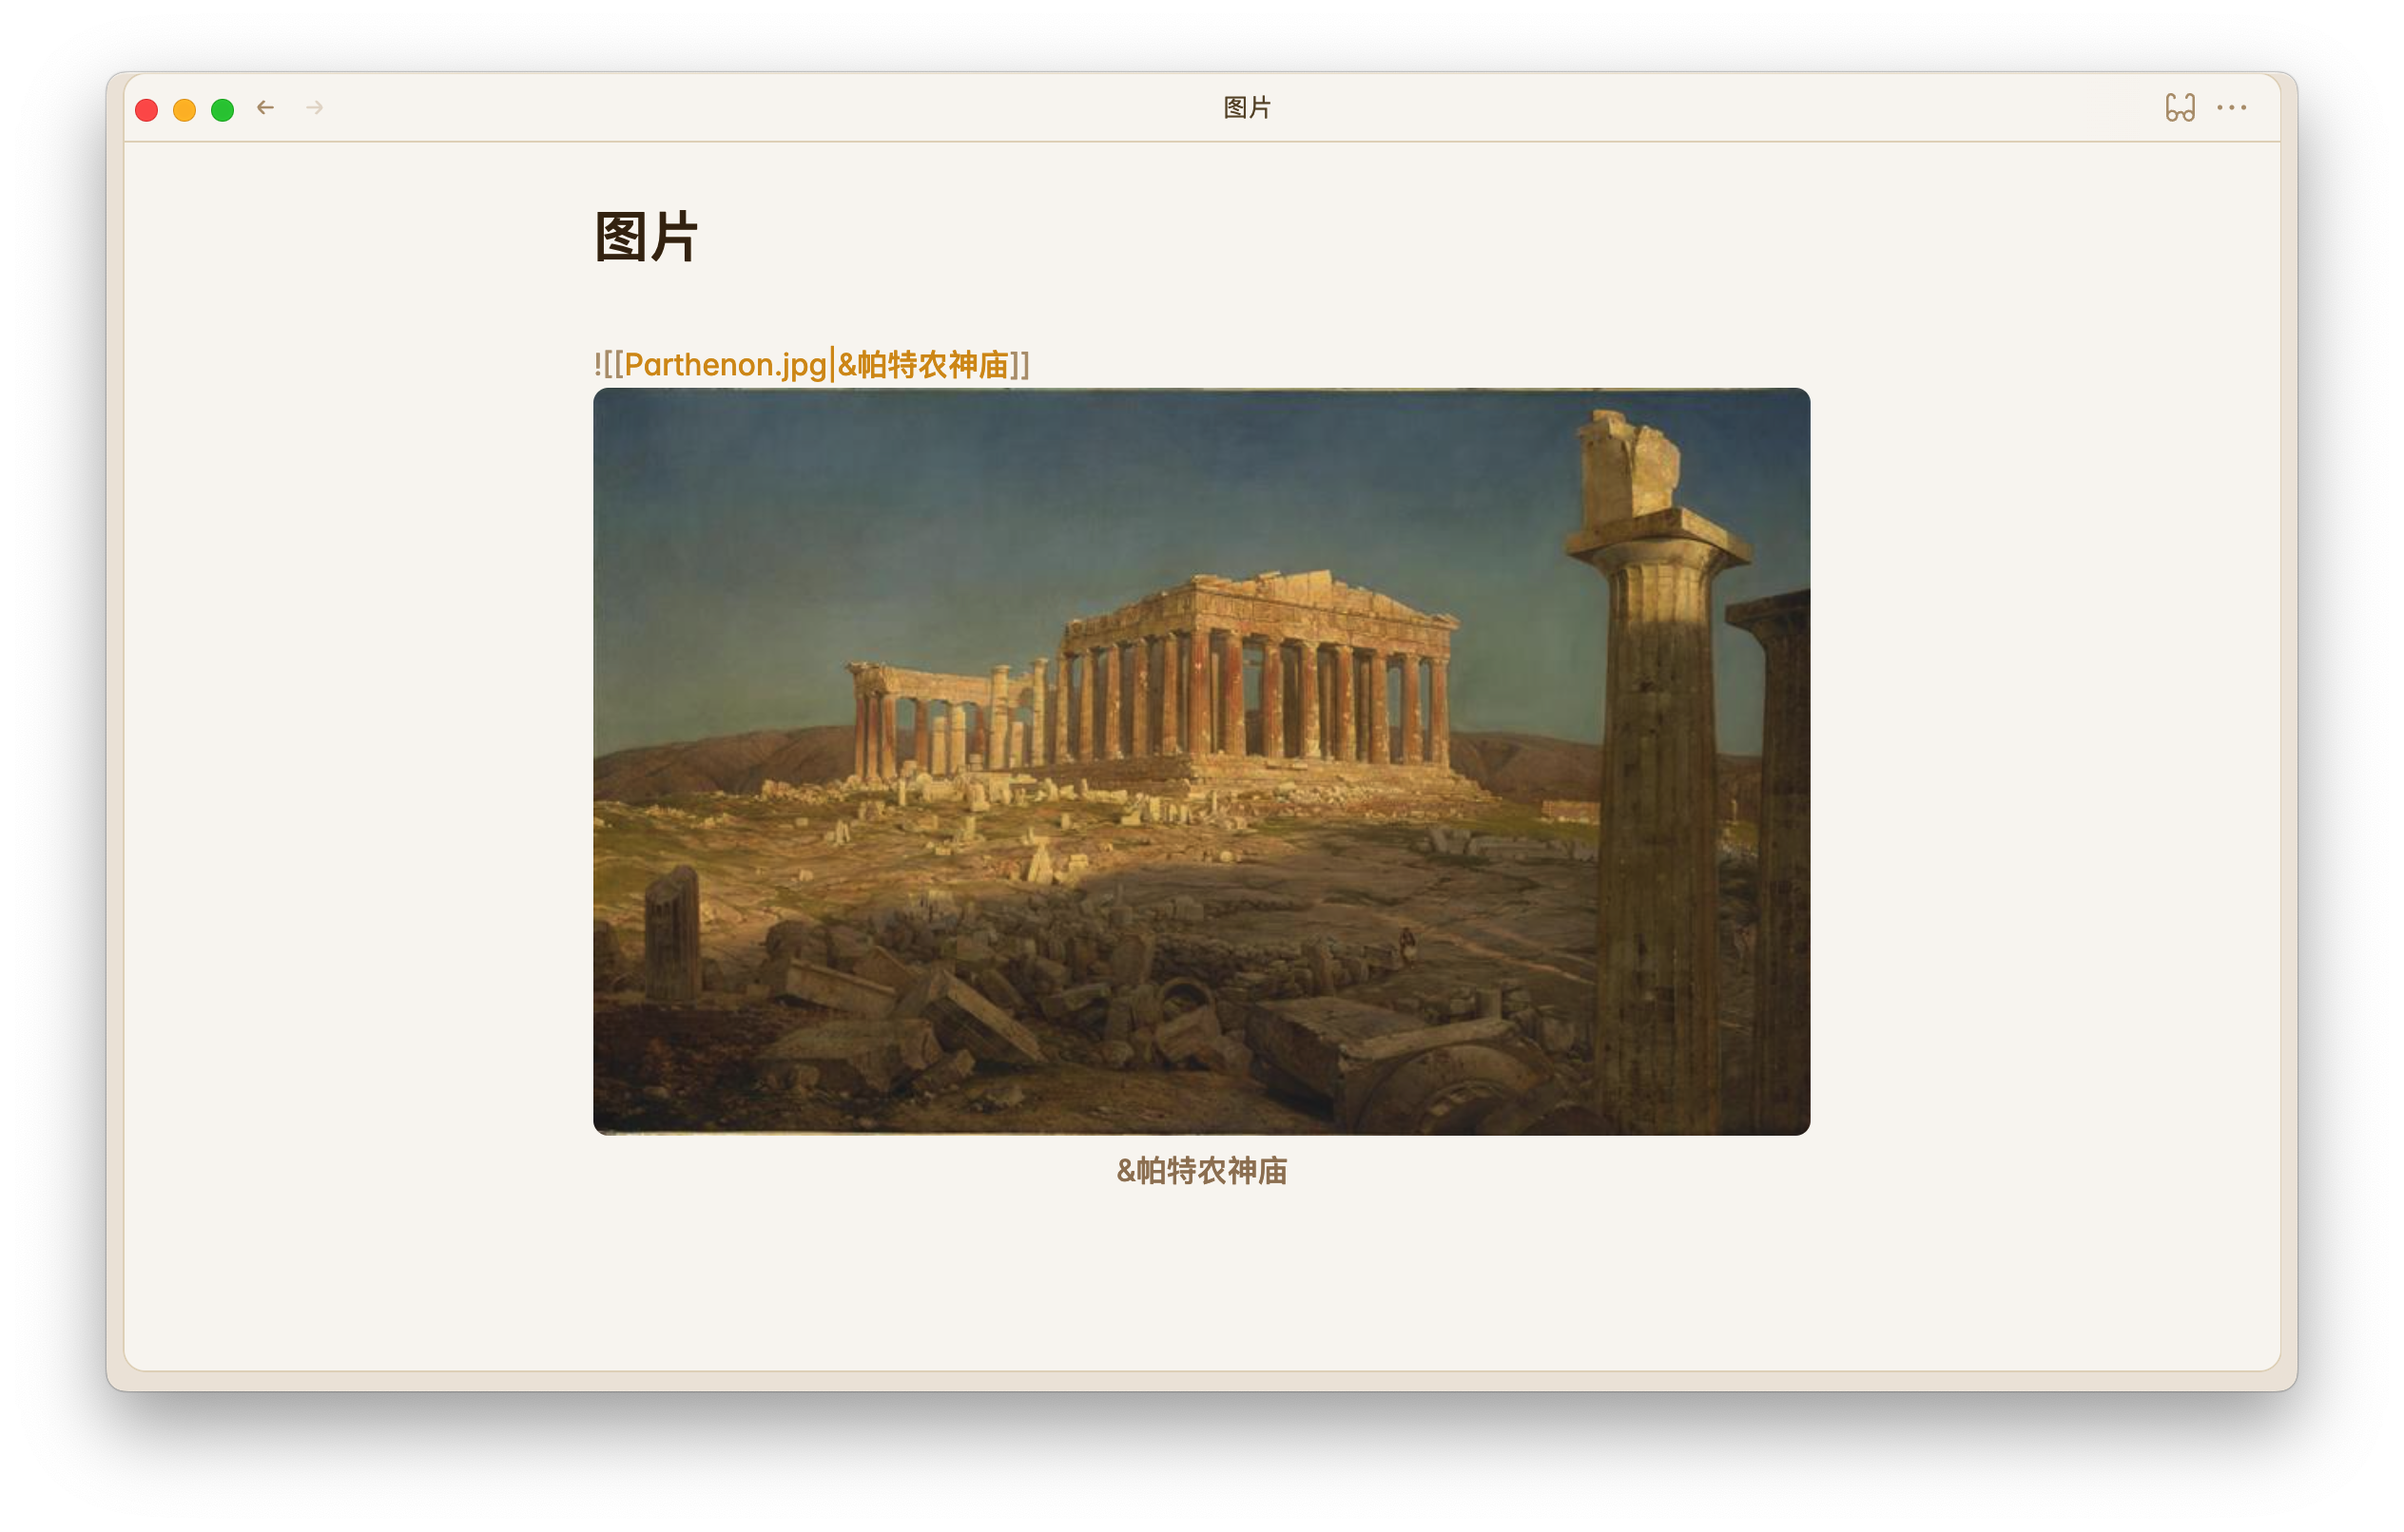
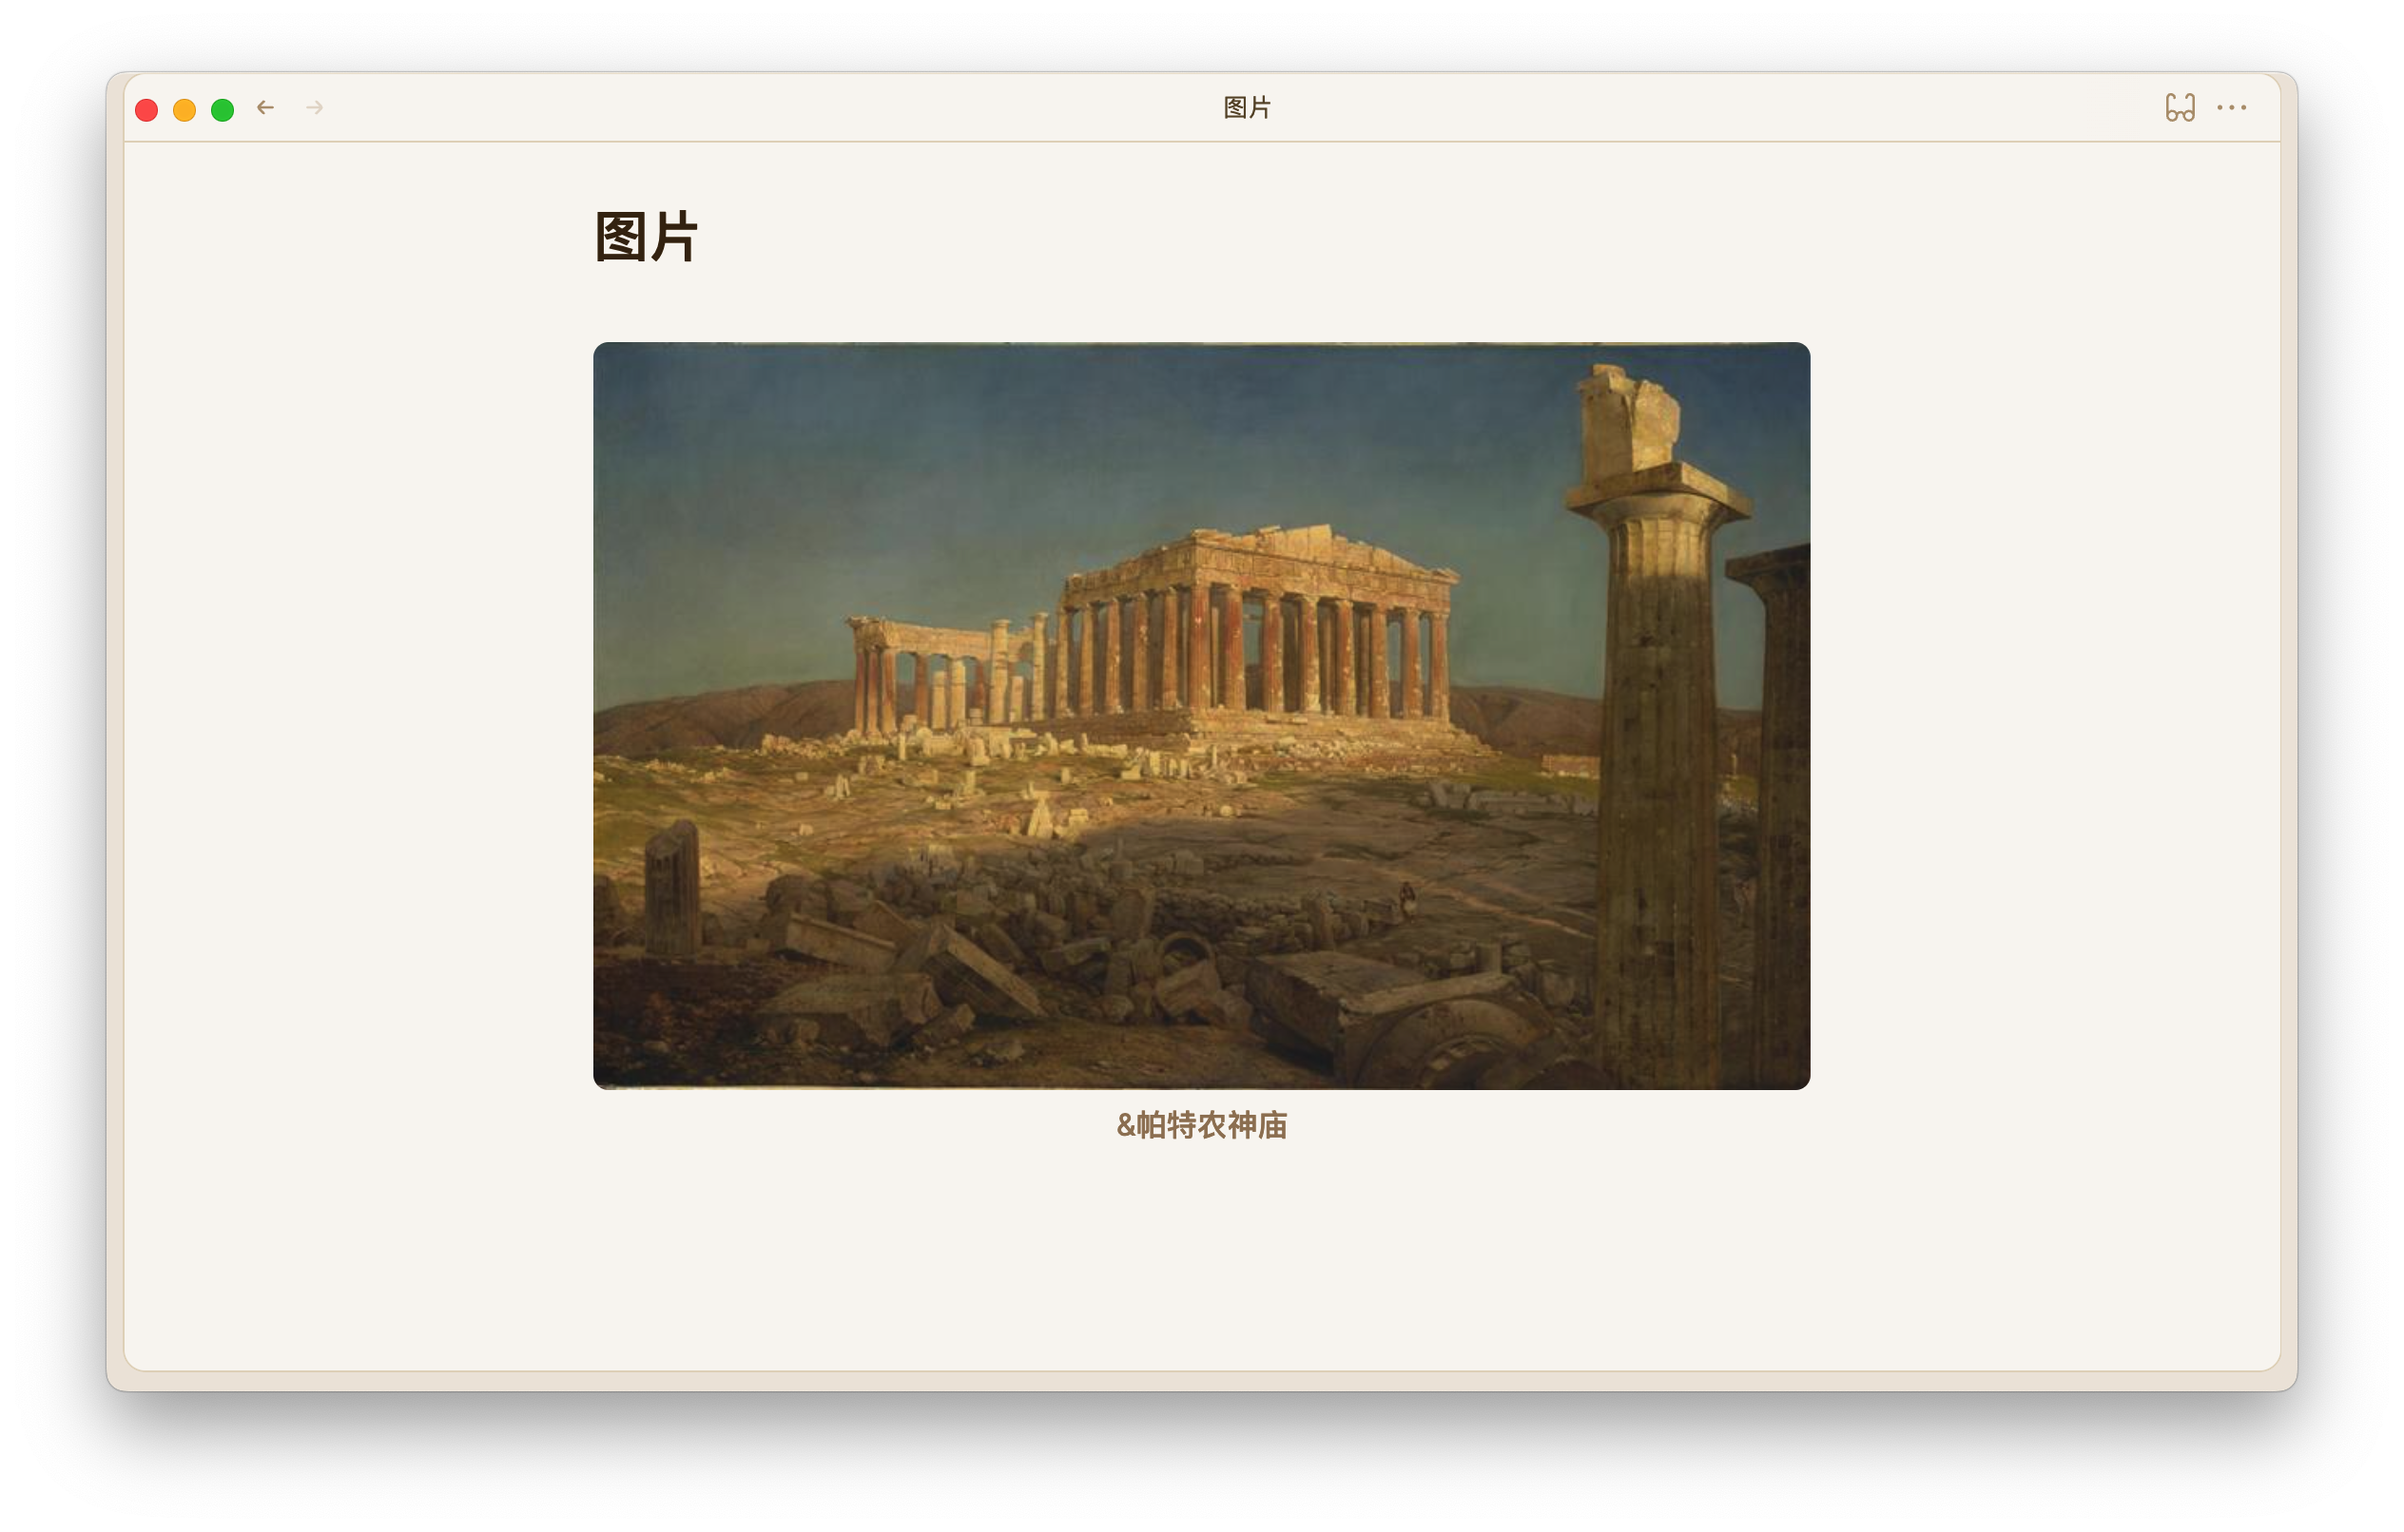
feat: 更新示例

Changed region(s): [[0.25, 0.3412, 0.75, 0.7754], [0.25, 0.2171, 0.75, 0.4342], [0.7188, 0.5273, 0.75, 0.5583]]

diff --git a/README.md b/README.md
@@ -20,11 +20,22 @@
 
 ## 002 图片描述展示
 
-![image-alt](assets/image-alt.png)
+
 
 ### 说明
 
 图片描述中 & 开头的内容会被显示在图片下方
+
+markdown 写法如下
+
+```markdown
+![[preview.png|&图片描述]]
+![&图片描述](./preview.png)
+```
+
+显示效果如下
+
+![image-alt](assets/image-alt.png)
 
 ### 使用
 

diff --git a/002 image-alt/图片.md b/002 image-alt/图片.md
@@ -1,2 +1,3 @@
 
 ![[Parthenon.jpg|&帕特农神庙]]
+![&图片描述](./Parthenon.jpg)
